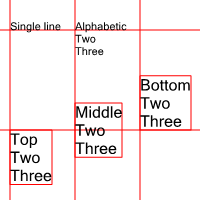
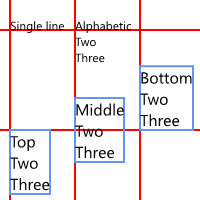
Make WinForms default font follow the system theme

Changed region(s): [[0.0, 0.0, 1.0, 1.0]]

diff --git a/winforms/src/toga_winforms/fonts.py b/winforms/src/toga_winforms/fonts.py
@@ -23,6 +23,10 @@ from toga.fonts import (
 
 _FONT_CACHE = {}
 
+# Unlike SystemFonts.DefaultFont, MessageBoxFont respects the system theme
+# (https://github.com/dotnet/winforms/issues/524).
+DEFAULT_FONT = SystemFonts.MessageBoxFont
+
 
 class Font:
     def __init__(self, interface):
@@ -43,8 +47,8 @@ class Font:
             except KeyError:
                 try:
                     font_family = {
-                        SYSTEM: SystemFonts.DefaultFont.FontFamily,
-                        MESSAGE: SystemFonts.MenuFont.FontFamily,
+                        SYSTEM: DEFAULT_FONT.FontFamily,
+                        MESSAGE: DEFAULT_FONT.FontFamily,
                         SERIF: FontFamily.GenericSerif,
                         SANS_SERIF: FontFamily.GenericSansSerif,
                         CURSIVE: FontFamily("Comic Sans MS"),
@@ -59,7 +63,7 @@ class Font:
                             f"Unknown font '{self.interface}'; "
                             "using system font as a fallback"
                         )
-                        font_family = SystemFonts.DefaultFont.FontFamily
+                        font_family = DEFAULT_FONT.FontFamily
 
             else:
                 try:
@@ -86,7 +90,7 @@ class Font:
 
             # Convert font size to Winforms format
             if self.interface.size == SYSTEM_DEFAULT_FONT_SIZE:
-                font_size = SystemFonts.DefaultFont.Size
+                font_size = DEFAULT_FONT.Size
             else:
                 font_size = self.interface.size
 

diff --git a/winforms/tests_backend/fonts.py b/winforms/tests_backend/fonts.py
@@ -36,7 +36,7 @@ class FontMixin:
 
     def assert_font_size(self, expected):
         if expected == SYSTEM_DEFAULT_FONT_SIZE:
-            assert int(self.font.SizeInPoints) == int(SystemFonts.DefaultFont.Size)
+            assert int(self.font.SizeInPoints) == 9
         else:
             assert int(self.font.SizeInPoints) == expected
 
@@ -44,9 +44,9 @@ class FontMixin:
         assert str(self.font.Name) == {
             CURSIVE: "Comic Sans MS",
             FANTASY: "Impact",
-            MESSAGE: SystemFonts.MenuFont.FontFamily.Name,
+            MESSAGE: SystemFonts.MessageBoxFont.FontFamily.Name,
             MONOSPACE: FontFamily.GenericMonospace.Name,
             SANS_SERIF: FontFamily.GenericSansSerif.Name,
             SERIF: FontFamily.GenericSerif.Name,
-            SYSTEM: SystemFonts.DefaultFont.FontFamily.Name,
+            SYSTEM: SystemFonts.MessageBoxFont.FontFamily.Name,
         }.get(expected, expected)

diff --git a/testbed/tests/widgets/test_detailedlist.py b/testbed/tests/widgets/test_detailedlist.py
@@ -92,7 +92,7 @@ async def test_scroll(widget, probe):
         assert not probe.refresh_available()
 
     # max_scroll_position is not perfectly accurate on Winforms.
-    assert probe.scroll_position == pytest.approx(probe.max_scroll_position, abs=10)
+    assert probe.scroll_position == pytest.approx(probe.max_scroll_position, abs=15)
 
     # Scroll to the middle of the detailedList
     widget.scroll_to_row(50)

diff --git a/testbed/tests/widgets/test_table.py b/testbed/tests/widgets/test_table.py
@@ -127,7 +127,7 @@ async def test_scroll(widget, probe):
     assert probe.max_scroll_position > 600
 
     # max_scroll_position is not perfectly accurate on Winforms.
-    assert probe.scroll_position == pytest.approx(probe.max_scroll_position, abs=10)
+    assert probe.scroll_position == pytest.approx(probe.max_scroll_position, abs=15)
 
     # Scroll to the middle of the table
     widget.scroll_to_row(50)

diff --git a/winforms/tests_backend/widgets/base.py b/winforms/tests_backend/widgets/base.py
@@ -94,7 +94,7 @@ class SimpleProbe(BaseProbe, FontMixin):
 
     def assert_height(self, min_height, max_height):
         if self.fixed_height is not None:
-            assert self.height == approx(self.fixed_height, rel=0.2)
+            assert self.height == approx(self.fixed_height, rel=0.1)
         else:
             assert min_height <= self.height <= max_height
 

diff --git a/winforms/tests_backend/widgets/selection.py b/winforms/tests_backend/widgets/selection.py
@@ -7,7 +7,7 @@ from .base import SimpleProbe
 class SelectionProbe(SimpleProbe):
     native_class = System.Windows.Forms.ComboBox
     background_supports_alpha = False
-    fixed_height = 19
+    fixed_height = 23
 
     def assert_resizes_on_content_change(self):
         xfail("Selection doesn't resize on content changes on this backend")

diff --git a/winforms/tests_backend/widgets/dateinput.py b/winforms/tests_backend/widgets/dateinput.py
@@ -10,7 +10,7 @@ from .base import SimpleProbe
 class DateTimeInputProbe(SimpleProbe, ABC):
     native_class = DateTimePicker
     background_supports_alpha = False
-    fixed_height = 18
+    fixed_height = 23
     supports_limits = True
 
     @abstractmethod

diff --git a/winforms/tests_backend/widgets/textinput.py b/winforms/tests_backend/widgets/textinput.py
@@ -11,7 +11,7 @@ from .properties import toga_xalignment
 class TextInputProbe(SimpleProbe):
     native_class = TextBox
     background_supports_alpha = False
-    fixed_height = 18
+    fixed_height = 23
 
     @property
     def value(self):

diff --git a/winforms/tests_backend/widgets/numberinput.py b/winforms/tests_backend/widgets/numberinput.py
@@ -10,7 +10,7 @@ class NumberInputProbe(SimpleProbe):
     allows_empty_value = True
     allows_extra_digits = True
     background_supports_alpha = False
-    fixed_height = 18
+    fixed_height = 23
 
     @property
     def value(self):

diff --git a/changes/2029.feature.5.rst b/changes/2029.feature.5.rst
@@ -1,0 +1,1 @@
+Font sizes are now consistently interpreted as CSS points. On Android, iOS and macOS, this means any numeric font sizes will appear 33% larger than before. The default font size on these platforms is unchanged.

diff --git a/changes/2029.feature.4.rst b/changes/2029.feature.4.rst
@@ -1,0 +1,1 @@
+On Windows, the default font now follows the system theme. On most devices, this means it has changed from Microsoft Sans Serif 8pt to Segoe UI 9pt.
